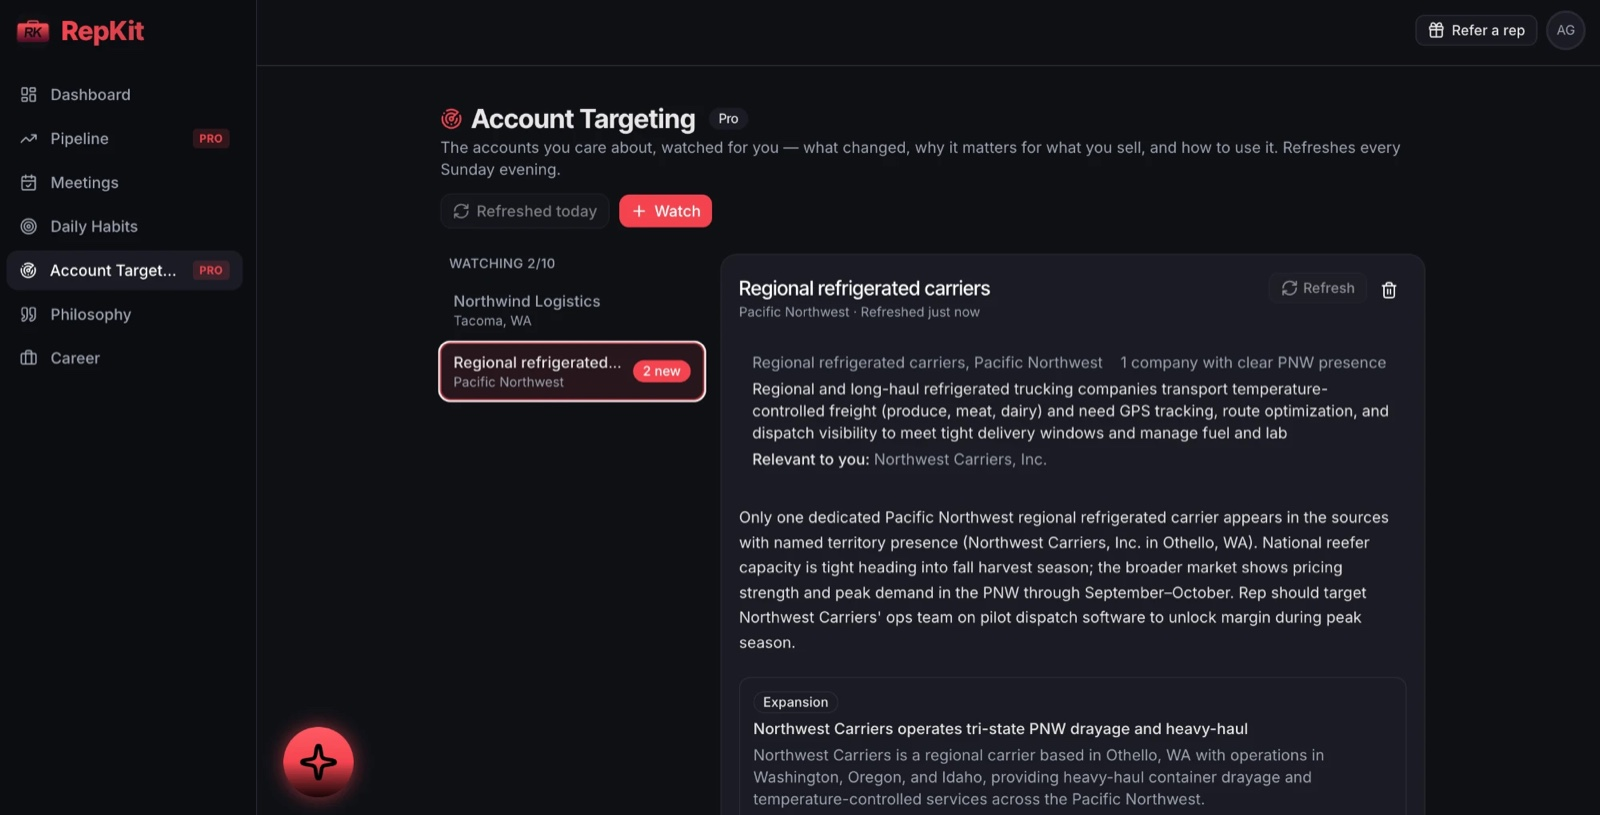
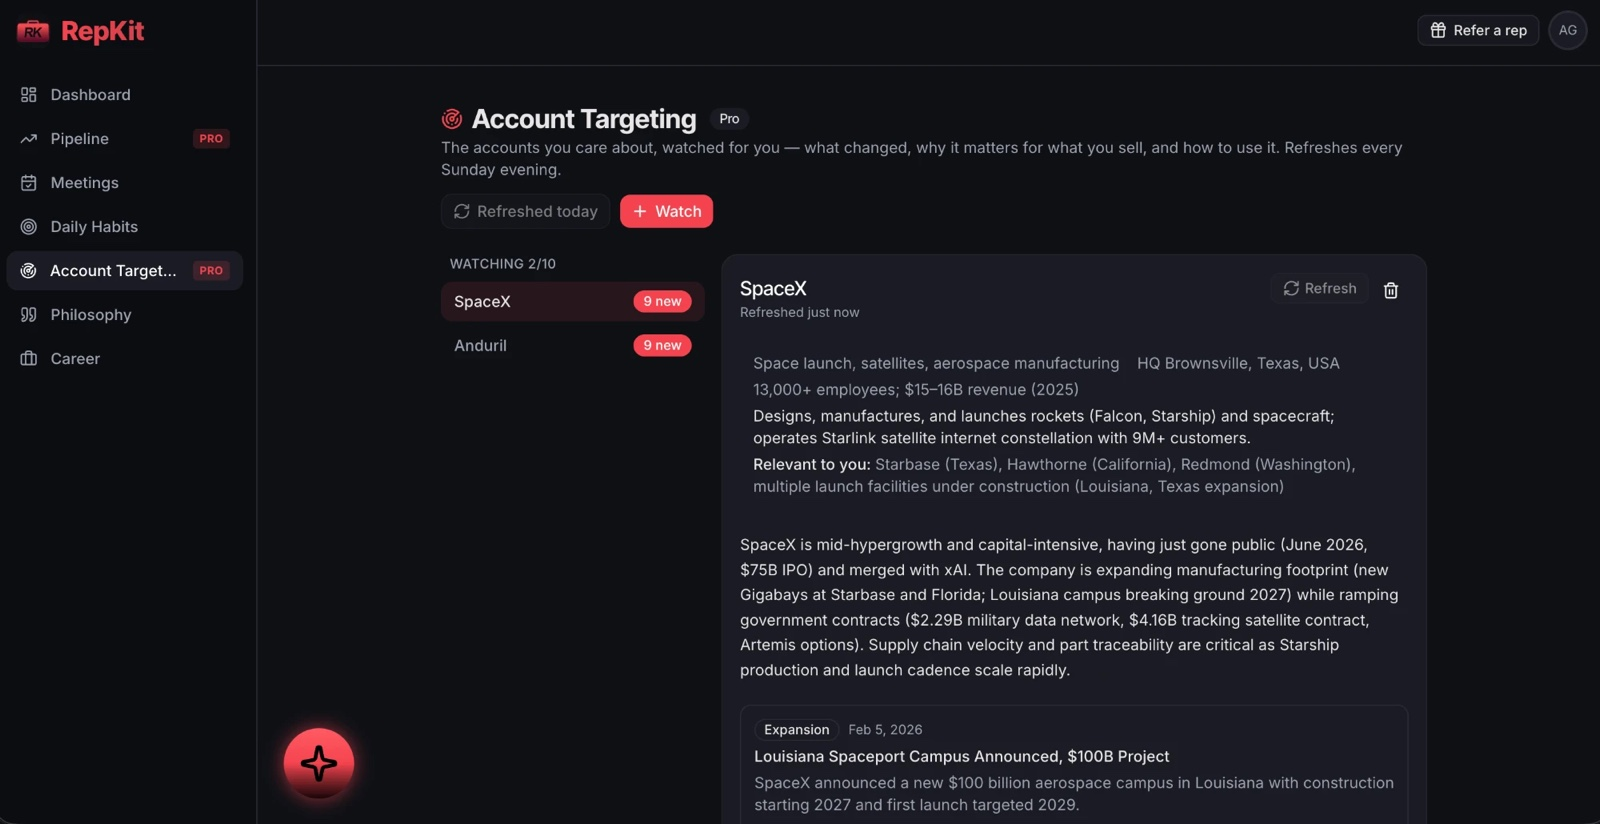
Site: Account Targeting card shows the SpaceX brief

diff --git a/index.html b/index.html
@@ -277,7 +277,7 @@
             <div class="feature-card wide">
                 <img class="wide-shot" src="/assets/features/targeting-web.jpg"
                      alt="Account Targeting in the RepKit web app: watched accounts and industries with weekly AI briefs"
-                     loading="lazy" width="1600" height="815">
+                     loading="lazy" width="1600" height="824">
                 <h3>Account Targeting <span class="pro-tag">Pro</span></h3>
                 <p><strong>Your accounts, watched for you.</strong> Name the companies and industries you care about. Every week RepKit reads the web and tells you what changed, why it matters, and how to use it.</p>
             </div>
